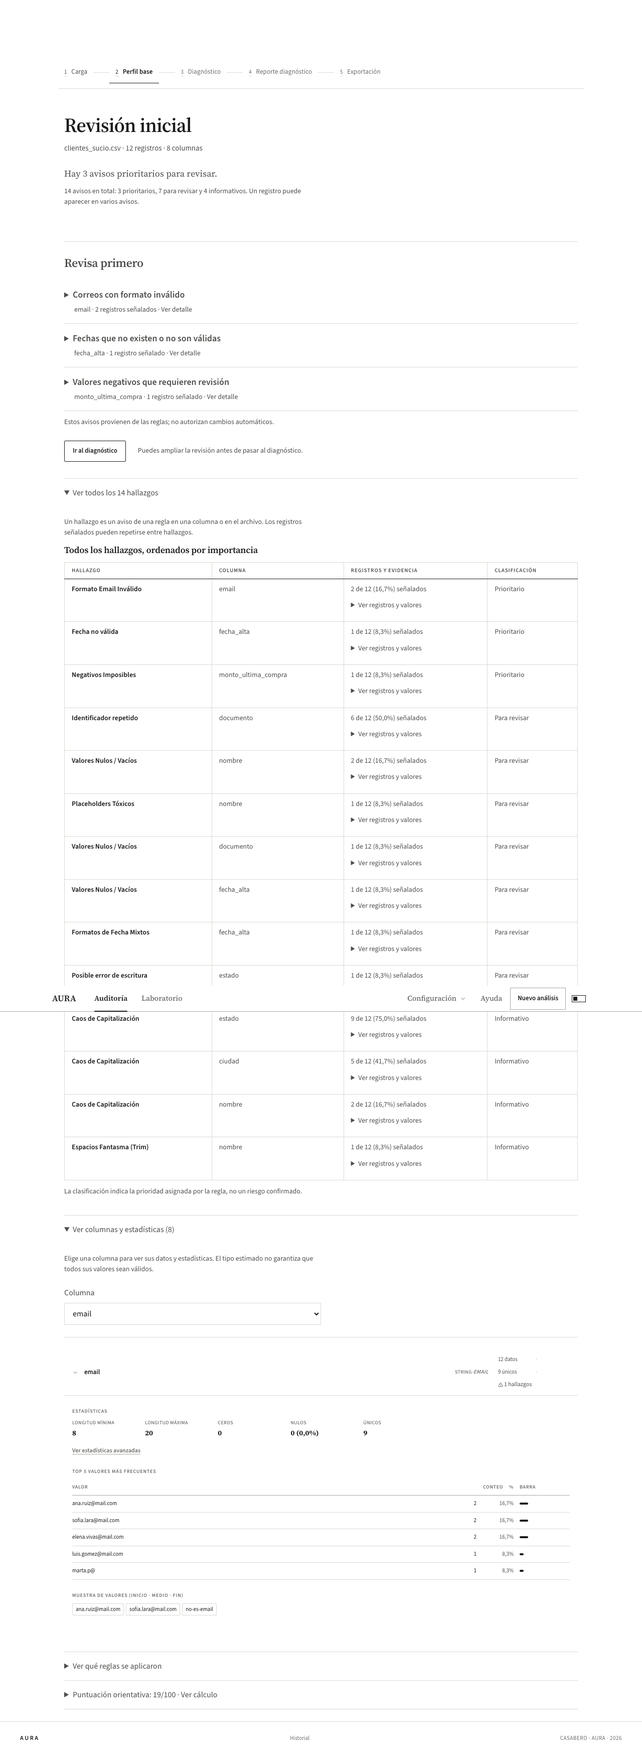
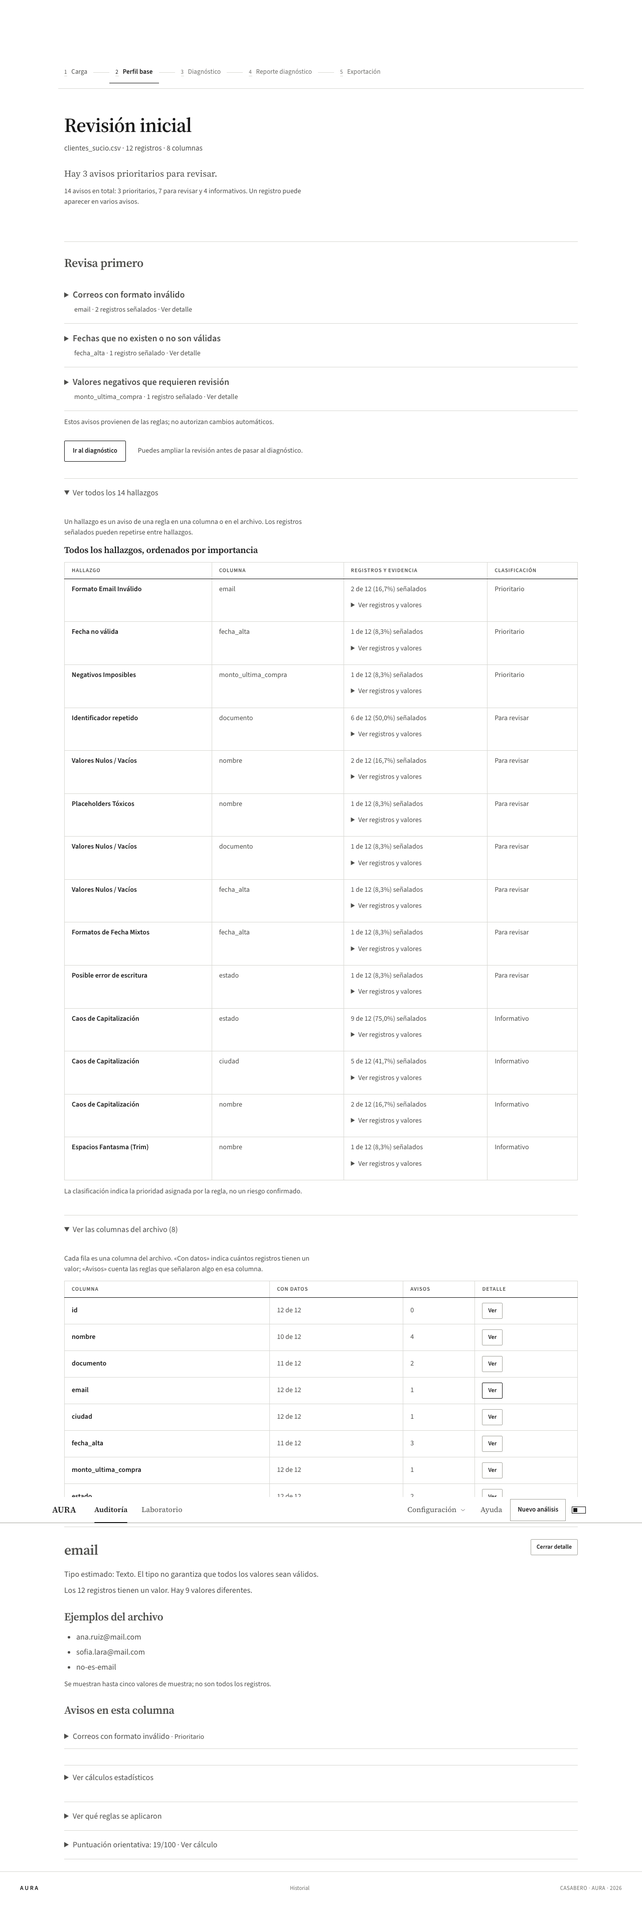
fix(profile): explica columnas con ejemplos y avisos antes de estadísticas

diff --git a/src/tests/e2e/rule-engine.spec.ts b/src/tests/e2e/rule-engine.spec.ts
@@ -7,6 +7,10 @@ const root = path.resolve(import.meta.dirname, '../../..');
 const examples = path.join(root, 'experiments/rule-engine');
 const source = (name: string) => ({ name: `${name}.csv`, mimeType: 'text/csv',
   buffer: Buffer.from(Papa.unparse(JSON.parse(fs.readFileSync(path.join(examples, 'fixtures', `${name}.json`), 'utf8')))) });
+const assertNoOverflow = async (page: any) => {
+  const result = await page.evaluate(() => ({ width: innerWidth, left: scrollX, total: document.documentElement.scrollWidth, elements: Array.from(document.querySelectorAll('*')).filter(el => { const box = el.getBoundingClientRect(); return box.width && box.right > innerWidth + 1; }).slice(0, 12).map(el => ({ tag: el.tagName, class: el.className, right: el.getBoundingClientRect().right })) }));
+  expect(result.total, JSON.stringify(result)).toBeLessThanOrEqual(result.width);
+};
 const openUpload = async (page: any) => {
   await page.goto('/');
   const start = page.getByRole('button', { name: /Empezar|Comenzar/ }).first();
@@ -27,16 +31,16 @@ test('real upload preserves identifier text and shows every detected problem', a
   await expect(region.getByText('Fecha no válida')).toBeVisible();
   await expect(region.getByRole('rowheader', { name: 'Identificador repetido', exact: true })).toBeVisible();
   await page.getByTestId('profile-tech-disclosure').locator('summary').first().click();
-  await page.getByLabel('Columna', { exact: true }).selectOption('documento');
-  await expect(page.locator('.col-detail-type-badge')).toContainText('string');
-  await page.getByLabel('Columna', { exact: true }).selectOption('email');
-  await expect(page.locator('.col-detail-header').filter({ hasText: 'email' })).toContainText('1 hallazgos');
+  await page.getByRole('button', { name: 'Ver columna documento', exact: true }).click();
+  await expect(page.getByTestId('profile-column-detail')).toContainText('Tipo estimado: Texto');
+  await page.getByRole('button', { name: 'Ver columna email', exact: true }).click();
+  await expect(page.getByTestId('profile-column-detail')).toContainText('Correos con formato inválido');
   await expect(page.getByText('OK', { exact: true })).toHaveCount(0);
   fs.mkdirSync(path.join(examples, 'screenshots'), { recursive: true });
   await page.screenshot({ path: path.join(examples, 'screenshots/clientes-general.png'), fullPage: true });
   await page.setViewportSize({ width: 390, height: 844 });
   await expect(page.getByTestId('profile-continue-diagnosis')).toBeVisible();
-  expect(await page.evaluate(() => document.documentElement.scrollWidth <= innerWidth)).toBe(true);
+  await assertNoOverflow(page);
   await page.screenshot({ path: path.join(examples, 'screenshots/clientes-mobile.png'), fullPage: true });
   expect(errors).toEqual([]);
 });
@@ -111,7 +115,7 @@ test('person chooses exceptions graphically before analysis and sees them in the
   await status.getByLabel('Valores permitidos (uno por línea)').fill('activo\ninactivo\npendiente');
   await page.screenshot({ path: path.join(examples, 'screenshots/reglas-editorial.png'), animations: 'disabled', fullPage: true });
   await page.setViewportSize({ width: 390, height: 844 });
-  expect(await page.evaluate(() => document.documentElement.scrollWidth <= innerWidth)).toBe(true);
+  await assertNoOverflow(page);
   await page.screenshot({ path: path.join(examples, 'screenshots/reglas-editorial-mobile.png'), animations: 'disabled', fullPage: true });
   await page.getByRole('button', { name: 'Analizar dataset', exact: true }).click();
   await page.getByTestId('profile-rules-disclosure').locator('summary').first().click();
@@ -141,7 +145,7 @@ test('profile starts with three priorities and opens evidence, all findings and 
   await page.evaluate(() => window.scrollTo({ top: 0, behavior: 'instant' }));
   await page.screenshot({ path: path.join(examples, 'screenshots/perfil-resumen.png'), fullPage: true, animations: 'disabled' });
   await page.setViewportSize({ width: 390, height: 844 });
-  expect(await page.evaluate(() => document.documentElement.scrollWidth <= innerWidth)).toBe(true);
+  await assertNoOverflow(page);
   await page.evaluate(() => window.scrollTo({ top: 0, behavior: 'instant' }));
   await page.screenshot({ path: path.join(examples, 'screenshots/perfil-resumen-mobile.png'), fullPage: true, animations: 'disabled' });
   const first = page.getByTestId('profile-priority-item').first().locator('summary');
@@ -150,15 +154,26 @@ test('profile starts with three priorities and opens evidence, all findings and 
   await expect(page.getByTestId('profile-priority-item').first().getByText('Registro 5:', { exact: false })).toBeVisible();
   await page.getByTestId('profile-all-disclosure').locator('summary').first().click();
   await expect(page.getByRole('region', { name: 'Todos los hallazgos' }).getByRole('row')).toHaveCount(15);
+  await page.getByTestId('profile-all-disclosure').locator('summary').first().click();
   await page.getByTestId('profile-tech-disclosure').locator('summary').first().click();
-  await page.getByLabel('Columna', { exact: true }).selectOption('documento');
-  await expect(page.locator('.col-detail')).toHaveCount(1);
+  await page.evaluate(() => window.scrollTo({ top: 0, behavior: 'instant' }));
+  await page.screenshot({ path: path.join(examples, 'screenshots/columnas-lista-mobile.png'), fullPage: true, animations: 'disabled' });
+  await page.getByRole('button', { name: 'Ver columna documento', exact: true }).click();
+  await expect(page.locator('.column-review-detail')).toHaveCount(1);
   await expect(page.getByTestId('profile-column-detail')).toContainText('0011223344');
-  await page.getByLabel('Columna', { exact: true }).selectOption('value');
-  await expect(page.locator('.col-detail')).toHaveCount(1);
+  await expect(page.getByTestId('profile-column-detail').locator('.colstats-full-panel')).not.toBeVisible();
+  await page.setViewportSize({ width: 1280, height: 900 });
+  await page.getByTestId('profile-column-detail').screenshot({ path: path.join(examples, 'screenshots/columna-documento.png'), animations: 'disabled' });
+  await page.setViewportSize({ width: 390, height: 844 });
+  await page.getByTestId('profile-column-detail').screenshot({ path: path.join(examples, 'screenshots/columna-documento-mobile.png'), animations: 'disabled' });
+  await page.getByRole('button', { name: 'Ver columna value', exact: true }).click();
+  await expect(page.locator('.column-review-detail')).toHaveCount(1);
   await expect(page.getByTestId('profile-column-detail')).toContainText('value');
+  await page.getByText('Ver cálculos estadísticos', { exact: true }).click();
+  await expect(page.locator('.col-detail')).toHaveCount(1);
+  await expect(page.locator('.colstats-full-panel')).toBeVisible();
   await page.getByTestId('profile-score-disclosure').locator('summary').click();
   await expect(page.getByText('No es un porcentaje de datos correctos ni una medida de precisión.', { exact: false })).toBeVisible();
-  expect(await page.evaluate(() => document.documentElement.scrollWidth <= innerWidth)).toBe(true);
+  await assertNoOverflow(page);
   expect(errors).toEqual([]);
 });

diff --git a/src/components/ColumnReview.tsx b/src/components/ColumnReview.tsx
@@ -1,0 +1,69 @@
+import React, { useEffect, useRef, useState } from 'react';
+import ColumnStatsPanel from './ColumnStatsPanel';
+import { type AuditReport, type QualityIssue, IssueSeverity } from '../types';
+
+const typeNames = { string: 'Texto', number: 'Números', boolean: 'Sí o no', date: 'Fechas', mixed: 'Tipos mezclados' };
+const showValue = (value: unknown) => {
+  if (value == null) return '(nulo)';
+  if (value === '') return '(vacío)';
+  if (typeof value === 'string' && !value.trim()) return '(solo espacios)';
+  const text = String(value);
+  return text.length > 160 ? `${text.slice(0, 160)}… (valor recortado)` : text;
+};
+const fold = (value: string) => value.normalize('NFD').replace(/[\u0300-\u036f]/g, '').toLowerCase();
+
+export default function ColumnReview({ report, issueName, renderEvidence }: {
+  report: AuditReport;
+  issueName: (issue: QualityIssue) => string;
+  renderEvidence: (issue: QualityIssue) => React.ReactNode;
+}) {
+  const [query, setQuery] = useState('');
+  const [selectedName, setSelectedName] = useState('');
+  const detailTitle = useRef<HTMLHeadingElement>(null);
+  const columns = Object.values(report.columnStats);
+  const visible = columns.filter(column => fold(column.name).includes(fold(query)));
+  const selected = report.columnStats[selectedName];
+  const findings = report.issues.filter(issue => issue.column === selectedName).sort((a, b) => {
+    const weight = { critical: 0, warning: 1, info: 2, good: 3 };
+    return weight[a.severity] - weight[b.severity];
+  });
+  useEffect(() => {
+    if (selectedName && detailTitle.current) {
+      detailTitle.current.focus({ preventScroll: true });
+      detailTitle.current.scrollIntoView?.({ block: 'start', behavior: 'instant' });
+    }
+  }, [selectedName]);
+
+  return <div className="column-review" data-testid="profile-column-table">
+    <p className="profile-reading-note">Cada fila es una columna del archivo. «Con datos» indica cuántos registros tienen un valor; «Avisos» cuenta las reglas que señalaron algo en esa columna.</p>
+    {columns.length > 12 && <div className="column-review-search"><label htmlFor="column-review-search">Buscar columna</label><input id="column-review-search" type="search" value={query} onChange={event => { setQuery(event.target.value); setSelectedName(''); }} /></div>}
+    {!!visible.length ? <div className="table-scroll" role="region" aria-label="Columnas del archivo" tabIndex={0}>
+      <table className="editorial-data-table column-review-table">
+        <thead><tr><th scope="col">Columna</th><th scope="col">Con datos</th><th scope="col">Avisos</th><th scope="col">Detalle</th></tr></thead>
+        <tbody>{visible.map(column => {
+          const count = report.issues.filter(issue => issue.column === column.name).length;
+          return <tr key={column.name}><th scope="row">{column.name}</th><td>{report.rowCount - column.nullCount} de {report.rowCount}</td><td>{count}</td>
+            <td><button type="button" className="btn-s btn-sm" aria-label={`Ver columna ${column.name}`} aria-current={selectedName === column.name ? 'true' : undefined} onClick={() => setSelectedName(column.name)}>Ver</button></td></tr>;
+        })}</tbody>
+      </table>
+    </div> : <div><p>No hay columnas con ese nombre.</p><button type="button" className="btn-s btn-sm" onClick={() => setQuery('')}>Mostrar todas las columnas</button></div>}
+
+    {selected && <section key={selectedName} className="column-review-detail" aria-labelledby="column-review-title" data-testid="profile-column-detail">
+      <div className="column-review-heading"><h2 id="column-review-title" ref={detailTitle} tabIndex={-1}>{selected.name}</h2><button type="button" className="btn-s btn-sm" onClick={() => { setSelectedName(''); const buttons = document.querySelectorAll<HTMLButtonElement>('.column-review-table button'); Array.from(buttons).find(button => button.getAttribute('aria-label') === `Ver columna ${selectedName}`)?.focus(); }}>Cerrar detalle</button></div>
+      <p className="column-review-type">Tipo estimado: {typeNames[selected.inferredType] ?? 'Sin determinar'}. El tipo no garantiza que todos los valores sean válidos.</p>
+      <p>{selected.nullCount ? `${selected.nullCount} de ${report.rowCount} registros están sin dato.` : `Los ${report.rowCount} registros tienen un valor.`} Hay {selected.uniqueCount} valores diferentes.</p>
+
+      <h3>Ejemplos del archivo</h3>
+      {selected.sampleValues?.length ? <ul className="column-review-examples">{selected.sampleValues.slice(0, 5).map((value, index) => <li key={index}>{showValue(value)}</li>)}</ul> : <p>No hay ejemplos disponibles en este informe.</p>}
+      <p className="profile-reading-note">Se muestran hasta cinco valores de muestra; no son todos los registros.</p>
+
+      <h3>Avisos en esta columna</h3>
+      {findings.length ? findings.map(issue => <details key={issue.id} className="column-review-issue"><summary>{issueName(issue)} <span>{issue.severity === IssueSeverity.CRITICAL ? '· Prioritario' : issue.severity === IssueSeverity.INFO ? '· Informativo' : '· Para revisar'}</span></summary>{renderEvidence(issue)}</details>) : <p>Las reglas evaluadas no señalaron avisos en esta columna.</p>}
+
+      <details className="column-review-calculations"><summary>Ver cálculos estadísticos</summary>
+        <p className="profile-reading-note">Aquí puedes consultar frecuencias, medidas numéricas y criterios de valores extremos. Son estadísticas, no decisiones de corrección.</p>
+        <ColumnStatsPanel columnStats={{ [selected.name]: selected }} totalRows={report.rowCount} initiallyExpanded compact />
+      </details>
+    </section>}
+  </div>;
+}

diff --git a/src/styles/profile-simple.css b/src/styles/profile-simple.css
@@ -21,8 +21,6 @@
 .profile-disclosure-body > ul { padding-left: 24px; }
 .profile-row-detail summary { cursor: pointer; min-height: 44px; padding: 12px 0; }
 .profile-row-detail .profile-issue-evidence { padding-left: 0; min-width: 180px; }
-.profile-column-picker { display: flex; flex-direction: column; gap: 8px; font-family: var(--font-sans); font-size: 16px; max-width: 32rem; margin: 24px 0; }
-.profile-column-picker select { min-height: 44px; width: 100%; font: inherit; background: var(--canvas); color: var(--ink); border: 1px solid var(--border); border-radius: 0; padding: 8px 12px; }
 .profile-simple .dataset-rules-summary { margin: 0; padding: 0; border: 0; }
 @media (max-width: 640px) {
   [data-casabero-theme="editorial"] .profile-simple .profile-actions { flex-direction: column; align-items: flex-start; gap: 8px; }
@@ -32,4 +30,35 @@
   [data-casabero-theme="editorial"] .main-pipeline:has(.profile-simple) .stepper-track { flex-wrap: wrap; overflow: visible; gap: 0 12px; }
   [data-casabero-theme="editorial"] .main-pipeline:has(.profile-simple) .stepper-step { flex: 0 0 auto; }
   [data-casabero-theme="editorial"] .main-pipeline:has(.profile-simple) .stepper-line { display: none; }
+}
+
+.column-review-table th, .column-review-table td { overflow-wrap: anywhere; }
+[data-casabero-theme="editorial"] .column-review .table-scroll .column-review-table { min-width: 0; table-layout: fixed; }
+.column-review-table thead th:first-child { width: 40%; }
+.column-review-table thead th:nth-child(2) { width: 26%; }
+.column-review-table thead th:nth-child(3) { width: 14%; }
+.column-review-table thead th:last-child { width: 20%; }
+.column-review-table button[aria-current="true"] { font-weight: 600; border-color: var(--ink); }
+.column-review-search { max-width: 32rem; display: flex; flex-direction: column; gap: 8px; font-family: var(--font-sans); margin: 16px 0; }
+.column-review-search input { min-height: 44px; border: 1px solid var(--border); border-radius: 0; padding: 8px 12px; background: var(--canvas); color: var(--ink); font: inherit; }
+.column-review-detail { border-top: 1px solid var(--border); margin-top: 32px; padding-top: 24px; font-family: var(--font-sans); }
+.column-review-heading { display: flex; align-items: start; justify-content: space-between; gap: 16px; }
+.column-review-heading h2 { margin: 0; font-family: var(--font-display); font-size: 28px; overflow-wrap: anywhere; scroll-margin-top: 84px; }
+.column-review-detail > p { font-size: 16px; line-height: 1.5; max-width: 70ch; }
+.column-review-type { margin: 16px 0 8px; color: var(--ink2); }
+.column-review-detail h3 { font-family: var(--font-display); font-size: 22px; margin: 24px 0 12px; }
+.column-review-examples { padding-left: 24px; }
+.column-review-examples li { margin: 6px 0; white-space: pre-wrap; overflow-wrap: anywhere; font-size: 16px; }
+.column-review-issue { border-bottom: 1px solid var(--border); }
+.column-review-issue > summary, .column-review-calculations > summary { min-height: 48px; padding: 12px 0; font-size: 16px; cursor: pointer; overflow-wrap: anywhere; }
+.column-review-issue summary > span { font-size: 14px; color: var(--ink2); }
+.column-review-calculations { border-top: 1px solid var(--border); margin-top: 32px; }
+@media (max-width: 640px) {
+  .column-review-heading { flex-direction: column; }
+  .column-review-heading h2 { scroll-margin-top: 200px; }
+  [data-casabero-theme="editorial"] .column-review .column-review-table th, [data-casabero-theme="editorial"] .column-review .column-review-table td { padding-inline: 6px; }
+  [data-casabero-theme="editorial"] .column-review .column-review-table thead th { font-size: 12px; letter-spacing: 0; text-transform: none; }
+  .column-review-table thead th:first-child { width: 34%; }
+  .column-review-table thead th:nth-child(3) { width: 20%; }
+  [data-casabero-theme="editorial"] .column-review-table .btn-s { padding-inline: 6px; min-width: 44px; min-height: 44px; white-space: nowrap; }
 }

diff --git a/src/__tests__/columnReview.test.tsx b/src/__tests__/columnReview.test.tsx
@@ -1,0 +1,57 @@
+// @vitest-environment jsdom
+import React from 'react';
+import { afterEach, describe, expect, it } from 'vitest';
+import { cleanup, fireEvent, render, screen, within } from '@testing-library/react';
+import ColumnReview from '../components/ColumnReview';
+import { runAudit } from '../services/auditEngine';
+
+afterEach(cleanup);
+const rows = [{ documento: '0011223344', nombre: ' Ana ', monto: '10' }, { documento: '0011223344', nombre: '', monto: '20' }];
+const report = runAudit(rows, Object.keys(rows[0]), ',');
+const show = (value = report) => render(<ColumnReview report={value} issueName={issue => issue.ruleName} renderEvidence={issue => <p>{issue.description}</p>} />);
+
+describe('columns are explained before statistics', () => {
+  it('shows every column with filled records and warning counts before a selection', () => {
+    show();
+    expect(screen.getAllByRole('row')).toHaveLength(4);
+    expect(screen.queryByTestId('profile-column-detail')).toBeNull();
+    const name = screen.getByRole('row', { name: /nombre/ });
+    expect(within(name).getByText('1 de 2')).toBeTruthy();
+    expect(screen.getByRole('button', { name: 'Ver columna documento' })).toBeTruthy();
+    expect(screen.queryByText('IQR')).toBeNull();
+  });
+  it('opens original examples and actual findings, keeps calculations closed and restores focus', () => {
+    show();
+    const button = screen.getByRole('button', { name: 'Ver columna documento' });
+    fireEvent.click(button);
+    const detail = within(screen.getByTestId('profile-column-detail'));
+    expect(detail.getByText(/Tipo estimado: Texto/)).toBeTruthy();
+    expect(detail.getAllByText('0011223344').length).toBeGreaterThan(0);
+    expect(detail.getByText('Identificador repetido')).toBeTruthy();
+    expect(screen.getByRole('heading', { name: 'documento' })).toBe(document.activeElement);
+    expect(detail.getByText('Ver cálculos estadísticos').closest('details')!.hasAttribute('open')).toBe(false);
+    fireEvent.click(detail.getByText('Ver cálculos estadísticos'));
+    expect(detail.getByText('Ver cálculos estadísticos').closest('details')!.hasAttribute('open')).toBe(true);
+    fireEvent.click(screen.getByRole('button', { name: 'Cerrar detalle' }));
+    expect(screen.queryByTestId('profile-column-detail')).toBeNull();
+    expect(document.activeElement).toBe(button);
+  });
+  it('changes the selected column without accumulating panels or removing warnings', () => {
+    show(); fireEvent.click(screen.getByRole('button', { name: 'Ver columna documento' }));
+    fireEvent.click(screen.getByRole('button', { name: 'Ver columna nombre' }));
+    expect(screen.getAllByTestId('profile-column-detail')).toHaveLength(1);
+    expect(screen.getByTestId('profile-column-detail').textContent).toContain('registros están sin dato');
+    expect(screen.getByTestId('profile-column-detail').textContent).toContain('Valores Nulos / Vacíos');
+    expect(screen.getByTestId('profile-column-detail').querySelector('.column-review-examples')?.textContent).toContain(' Ana ');
+  });
+  it('finds columns in a wide file and recovers from an empty search', () => {
+    const wide = Object.fromEntries(Array.from({ length: 14 }, (_, index) => [`columna_${index}`, 'abc']));
+    show(runAudit([wide, { ...wide }], Object.keys(wide), ','));
+    fireEvent.change(screen.getByLabelText('Buscar columna'), { target: { value: 'columna_13' } });
+    expect(screen.getAllByRole('row')).toHaveLength(2);
+    fireEvent.change(screen.getByLabelText('Buscar columna'), { target: { value: 'no_existe' } });
+    expect(screen.getByText('No hay columnas con ese nombre.')).toBeTruthy();
+    fireEvent.click(screen.getByRole('button', { name: 'Mostrar todas las columnas' }));
+    expect(screen.getAllByRole('row')).toHaveLength(15);
+  });
+});

diff --git a/src/components/ProfileStep.tsx b/src/components/ProfileStep.tsx
@@ -1,6 +1,6 @@
-import React, { useEffect, useMemo, useState } from 'react';
+import React, { useEffect, useMemo } from 'react';
 import { AppliedDatasetRules } from './DatasetRulesEditor';
-import ColumnStatsPanel from './ColumnStatsPanel';
+import ColumnReview from './ColumnReview';
 import IngestionEvidenceCard from './IngestionEvidenceCard';
 import { AuditExecutionEvidence, AuditReport, DeterministicValidationReport, IssueSeverity, QualityIssue, RULE_IDS } from '../types';
 import { formatAffectedShare } from '../services/issuePresentation';
@@ -47,7 +47,6 @@ interface ProfileStepProps {
 }
 
 export default function ProfileStep({ report, auditEvidence, file, onContinue, onRetry }: ProfileStepProps) {
-  const [selectedColumn, setSelectedColumn] = useState('');
   useEffect(() => { window.scrollTo({ top: 0, left: 0, behavior: 'instant' }); }, []);
   const sorted = useMemo(() => [...(report?.issues ?? [])].sort((a, b) => {
     const weight = { [IssueSeverity.CRITICAL]: 0, [IssueSeverity.WARNING]: 1, [IssueSeverity.INFO]: 2 };
@@ -64,7 +63,6 @@ export default function ProfileStep({ report, auditEvidence, file, onContinue, o
   const info = sorted.filter(issue => issue.severity === IssueSeverity.INFO);
   const first = (critical.length ? critical : warnings).slice(0, 3);
   const columns = Object.values(report.columnStats);
-  const selected = report.columnStats[selectedColumn];
   const hasConditions = Object.values(report.auditRules ?? {}).some(rule => Object.keys(rule).length);
 
   return <div className="profile-step profile-simple">
@@ -110,11 +108,9 @@ export default function ProfileStep({ report, auditEvidence, file, onContinue, o
       </details>}
 
       <details className="profile-disclosure" data-testid="profile-tech-disclosure">
-        <summary>Ver columnas y estadísticas ({columns.length})</summary>
-        <div className="profile-disclosure-body" data-testid="profile-column-table">
-          <p className="profile-reading-note">Elige una columna para ver sus datos y estadísticas. El tipo estimado no garantiza que todos sus valores sean válidos.</p>
-          <div className="profile-column-picker"><label htmlFor="profile-column-select">Columna</label><select id="profile-column-select" value={selectedColumn} onChange={event => setSelectedColumn(event.target.value)}><option value="">Selecciona una columna</option>{columns.map(column => <option key={column.name} value={column.name}>{column.name}</option>)}</select></div>
-          {selected && <div data-testid="profile-column-detail"><ColumnStatsPanel key={selected.name} columnStats={{ [selected.name]: selected }} totalRows={report.rowCount} issues={report.issues} initiallyExpanded compact /></div>}
+        <summary>Ver las columnas del archivo ({columns.length})</summary>
+        <div className="profile-disclosure-body">
+          <ColumnReview report={report} issueName={issue => readableNames[issue.ruleId] ?? issue.ruleName} renderEvidence={issue => <IssueEvidence issue={issue} />} />
         </div>
       </details>
 

diff --git a/experiments/rule-engine/perfil-simple.md b/experiments/rule-engine/perfil-simple.md
@@ -17,7 +17,7 @@ Cada aviso se abre para ver su explicación, los números de registro y las mues
 Los detalles tienen accesos separados:
 
 - **Ver todos los hallazgos**: lista completa, ordenada por importancia. Cada fila permite abrir sus registros y valores.
-- **Ver columnas y estadísticas**: selector de una columna, con sus estadísticas y muestras. No repite toda la lista de columnas en varias secciones.
+- **Ver las columnas del archivo**: lista con nombre, registros con datos y cantidad de avisos. El botón **Ver** abre una sola columna, con su tipo estimado, ejemplos originales y avisos. Los cálculos quedan dentro de **Ver cálculos estadísticos**, cerrado al entrar.
 - **Ver las reglas aplicadas**: condiciones elegidas antes de analizar, incluidas las excepciones.
 - **Puntuación orientativa**: cálculo completo y explicación de que no es un porcentaje de datos correctos ni una medida de precisión.
 
@@ -41,3 +41,13 @@ El CSV controlado conserva 14 hallazgos, tres críticos en el motor y 16/100. El
 - Detector visual sin observaciones en los componentes revisados. Se actualizó el grafo de navegación.
 
 Las pruebas que dependen de proveedores externos no se ejecutaron como parte de esta revisión de presentación.
+
+## Segunda revisión: columnas más claras
+
+Se sustituyó el selector que abría directamente el panel estadístico por una lista breve. Elegir una columna lleva el foco a su detalle; cerrar el detalle devuelve el foco al botón de esa columna. Para archivos de más de 12 columnas aparece una búsqueda. Los nombres largos pueden partirse, mientras que los botones permanecen legibles en móvil.
+
+Los ejemplos conservan el texto original, incluidos los ceros iniciales de los documentos. «Valores diferentes» sustituye a «únicos» para evitar confundir el número de valores distintos con la ausencia de duplicados. El tipo se presenta como estimado: no certifica que todas las fechas o números sean válidos. La ausencia de avisos se limita explícitamente a las reglas evaluadas.
+
+Esta revisión no modifica el motor, la puntuación ni la evidencia enviada a Nano. Comprobaciones: 168 archivos de pruebas, 2.247 pruebas aprobadas y seis omitidas; 16 pruebas de navegador aprobadas, incluida la apertura de columnas y cálculos en móvil; compilación aprobada. El detector no encontró observaciones en los componentes revisados. También se revisaron las capturas, porque esas comprobaciones no bastan para juzgar la claridad visual.
+
+[Lista de columnas en móvil](screenshots/columnas-lista-mobile.png) · [Detalle en escritorio](screenshots/columna-documento.png) · [Detalle en móvil](screenshots/columna-documento-mobile.png).
